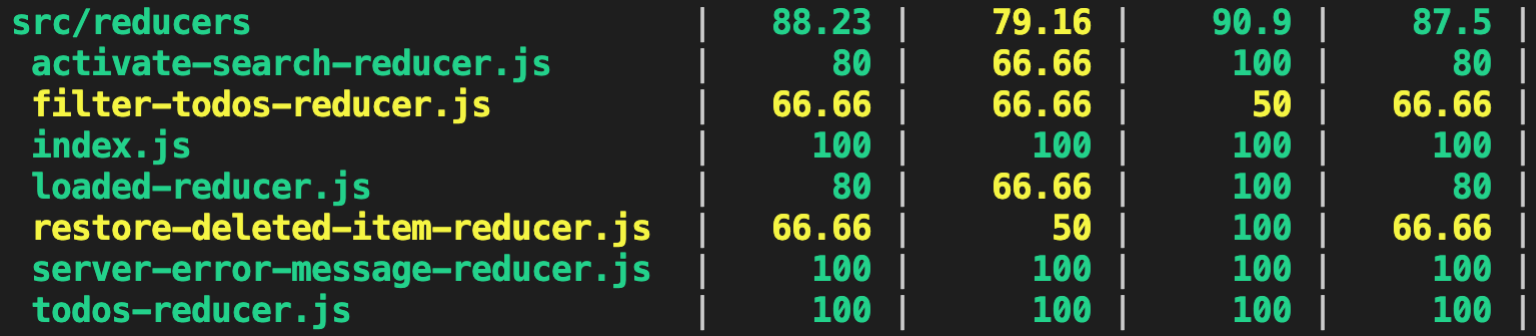
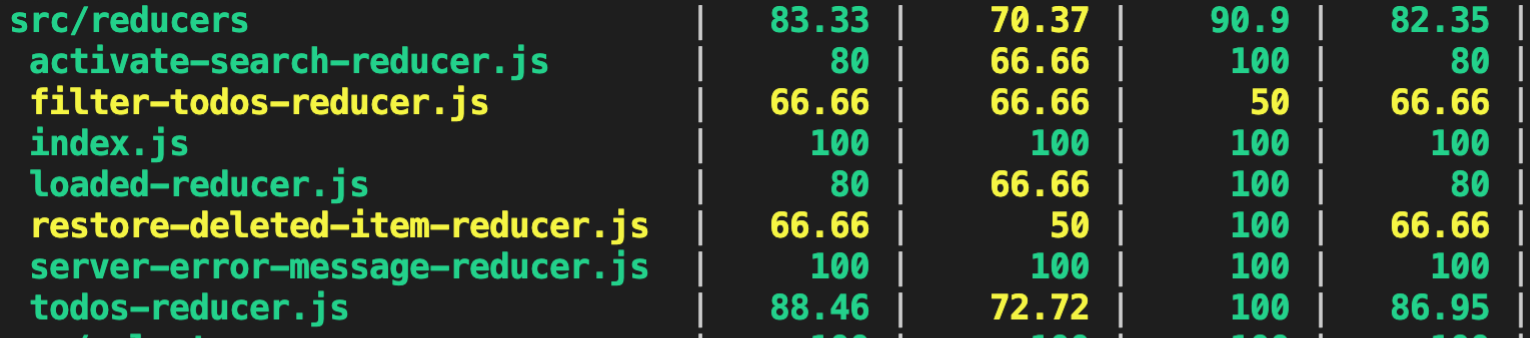
Update tests

diff --git a/src/ex8/client/src/reducers/__tests__/todos-reducer.test.js b/src/ex8/client/src/reducers/__tests__/todos-reducer.test.js
@@ -1,5 +1,5 @@
 import todosReducer, {  } from "../todos-reducer";
-import { setTodos, addTodos, deleteTodo, markOld } from "../../actions/todos-action";
+import { setAllTodos, addTodos, deleteTodo, markOld, setTodosWhere} from "../../actions/todos-action";
 
 const oldItems = [
   {id: 1, text: 'one', isNew: false},
@@ -20,7 +20,7 @@ test('todosReducer should return the initial state', () => {
 
 test('todosReducer should set a todo list', () => {
   const previousState = { items: [] };
-  expect(todosReducer(previousState, setTodos(oldItems))).toEqual(
+  expect(todosReducer(previousState, setAllTodos(oldItems))).toEqual(
     { items: oldItems }
   )
 })

diff --git a/src/ex8/README.md b/src/ex8/README.md
@@ -135,7 +135,7 @@ This will make your project:
 
 ### Bonus
 
-- [x] Coverage - get to 50% coverage for `items-entities-reducer.js` file // **100% for `todosReducer`  and 80% for all reducers**
+- [x] Coverage - get to 50% coverage for `items-entities-reducer.js` file // **over 70% for `todosReducer` and the average for all reducers**
 <img src="./client/public/reducers-coverage.png" alt="reducers coverage">
 
 - [x] Add snapshot tests with more props variations // **sent props to `Footer` and `Filter` components**
